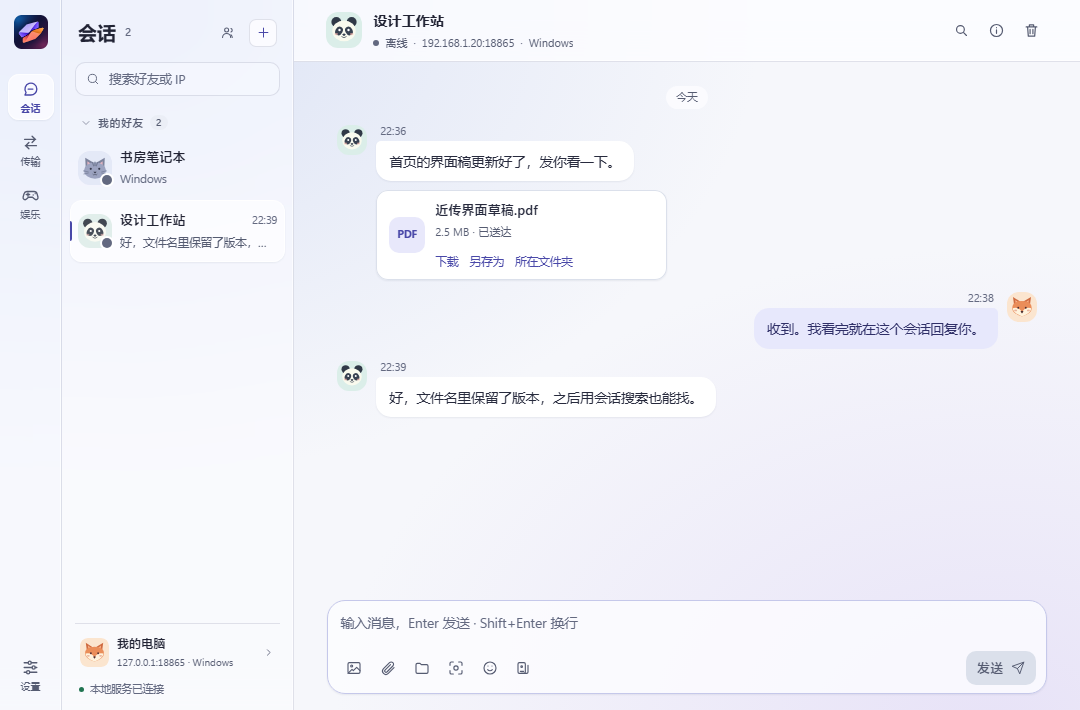
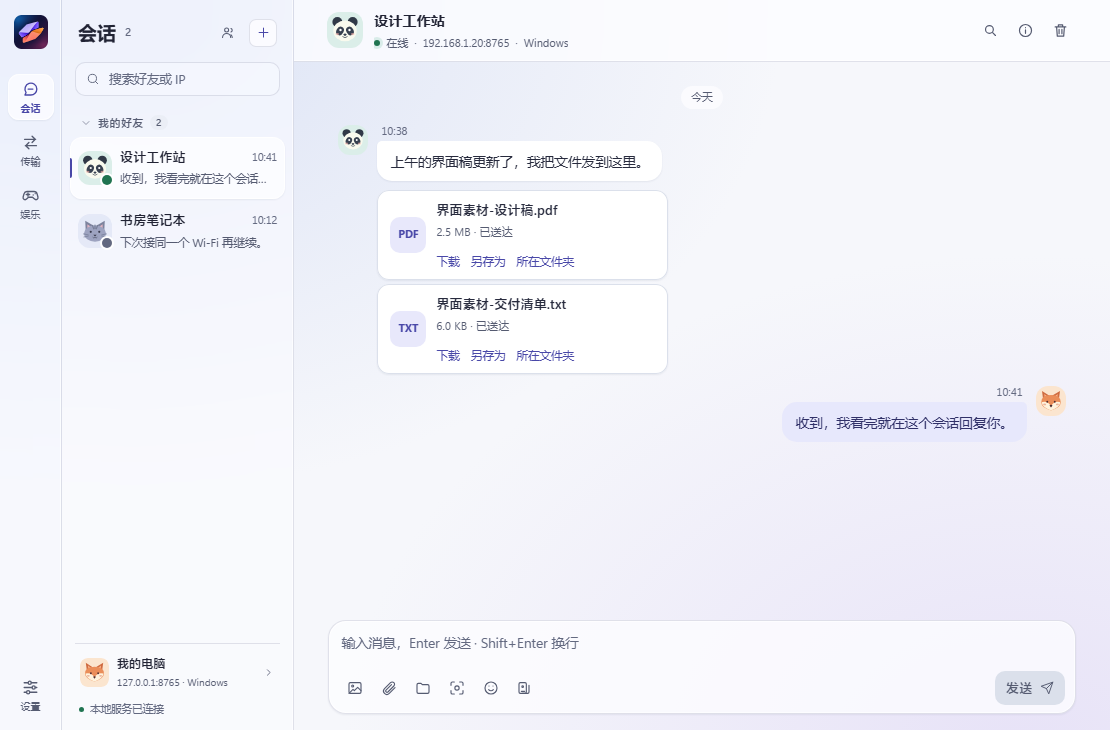
Show JinChuang features with a screenshot gallery

diff --git a/docs/SHOWCASE.md b/docs/SHOWCASE.md
@@ -1,0 +1,61 @@
+# 功能图览
+
+[返回项目首页](../README.md) · [详细使用手册](USAGE.md)
+
+用一台「设计工作站」和一台「我的电脑」演示日常互传。截图来自实际界面，设备、聊天和文件均为演示数据；部分为较早版本的功能回归截图。
+
+[聊天](#聊天和收文件) · [附件草稿](#发送前检查附件) · [搜索](#搜索会话和筛选文件) · [连接诊断](#添加好友和连接诊断) · [传输控制](#暂停继续和取消传输) · [设置](#头像和外观) · [麻将](#四川麻将练习)
+
+## 聊天和收文件
+
+选中设备即可聊天。收到的文件直接显示在气泡里，可以下载、另存或打开所在文件夹。无需先切到独立的传输页。
+
+![聊天中收到 PDF 设计稿和 TXT 交付清单](images/conversation.png)
+
+## 发送前检查附件
+
+把文件拖入会话，或从输入框下方选择图片、文件、文件夹。附件会先进入**待发送**区，能查看文件名、大小和图片缩略图；选错的可以移除，只有点「发送」才会传出。
+
+![待发送区同时放入 TXT、PDF 和 PNG 三种附件](images/attachment-draft.png)
+
+## 搜索会话和筛选文件
+
+在当前会话按 `Ctrl+F`（macOS：`⌘F`），或点右上角放大镜。输入「素材」并选「文件」，只看匹配的文件记录。可以直接下载，也可以点结果回到原消息。
+
+![搜索素材并筛选为文件，显示两个匹配附件](images/conversation-search.png)
+
+## 添加好友和连接诊断
+
+自动发现不到对方时，点会话列表旁的「+」，输入对方显示的 **IP 或 IP:端口**，先点「检测连接」。近传会显示检测结果、对方版本和响应时间。已添加的设备也可从「好友资料」运行诊断。
+
+![添加好友时检测连接，显示目标地址、版本和响应时间](images/connection-diagnostics.png)
+
+截图中的 `127.0.0.1` 和端口是本机双端测试用的。两台电脑互传时，请填写**对方电脑的局域网地址**。
+
+## 暂停继续和取消传输
+
+示例中的 10 MB 文件已经传了 **4 MB**。暂停会保留接收端确认的进度；点「继续」后从这里接着传。文件收齐后执行 SHA-256 校验。
+
+![传输页显示 4 MB / 10 MB、40% 和已暂停状态](images/transfer.png)
+
+取消前会提示将清理哪些数据。已送达的文件和聊天记录不会因此删除；对方暂不在线时，可等上线再重试清理。
+
+![取消传输前的二次确认对话框](images/transfer-cancel.png)
+
+> 完整传输控制需要双方都使用 v1.6.1 或更新版本，适用于单聊里的文件和图片。群文件和整目录仍走原有传输方式。
+
+## 头像和外观
+
+左下角「设置 → 我的资料」可更改昵称、选择内置头像。外观支持浅色、深色和跟随系统，也可精简页面动效。
+
+![设置里展示六款卡通头像和主题、动效选项](images/profile-settings.png)
+
+同一个会话切到深色后的样子：
+
+![近传深色会话界面，保留相同的消息和附件布局](images/dark-theme.png)
+
+## 四川麻将练习
+
+在「娱乐 → 四川麻将」可开始单人练习，与三家电脑一起打牌；也可以从会话邀请好友加入牌桌。
+
+![四川麻将单人练习中的横向牌桌和三家电脑对手](images/mahjong-practice.png)

diff --git a/README.md b/README.md
@@ -6,6 +6,7 @@
 
 <p align="center">
   <a href="https://github.com/kiu9676-cmd/JinChuang/archive/refs/heads/main.zip">下载源码</a> ·
+  <a href="docs/SHOWCASE.md">功能图览</a> ·
   <a href="#快速开始">快速开始</a> ·
   <a href="docs/USAGE.md">使用手册</a> ·
   <a href="CHANGELOG.md">更新日志</a> ·
@@ -16,14 +17,22 @@
 
 ![近传会话界面：设备列表、文字和文件消息](docs/images/conversation.png)
 
-## 能做什么
+## 功能一览
 
-- **找到同一网络里的设备**：自动发现，或手动添加 IP。连不上时，可以在添加好友或好友资料里检测地址和端口。
-- **聊天和查附件**：支持单聊和群聊、截图、拖放文件和文件夹。按 `Ctrl+F`（macOS：`⌘F`）搜索当前会话，再按类型筛选和定位。
-- **大文件传到一半也能接着传**：双方使用 v1.6.1 或更新版本时，单聊的文件和图片支持暂停、继续、取消；按接收端确认的进度恢复，完成后校验 SHA-256。
-- **数据留在本机**：聊天记录、好友资料和接收文件默认保存在 `data/`，接收目录可自定义。
+<table>
+  <tr>
+    <td width="50%"><a href="docs/SHOWCASE.md#发送前检查附件"><img src="docs/images/attachment-draft.png" alt="待发送区展示三种附件"></a><br><b>发送前先检查附件</b><br>拖入或选择文件，确认后再发送。</td>
+    <td width="50%"><a href="docs/SHOWCASE.md#搜索会话和筛选文件"><img src="docs/images/conversation-search.png" alt="会话内搜索并筛选文件"></a><br><b>会话内快速找文件</b><br>按 Ctrl+F 搜索，筛选、定位或下载。</td>
+  </tr>
+  <tr>
+    <td width="50%"><a href="docs/SHOWCASE.md#添加好友和连接诊断"><img src="docs/images/connection-diagnostics.png" alt="添加好友时查看连接诊断结果"></a><br><b>连不上，先检测</b><br>核对地址、版本和响应时间。</td>
+    <td width="50%"><a href="docs/SHOWCASE.md#暂停继续和取消传输"><img src="docs/images/transfer.png" alt="文件传到 40% 后保留进度并暂停"></a><br><b>大文件可以暂停再继续</b><br>保留确认进度，传完用 SHA-256 校验。</td>
+  </tr>
+</table>
 
-[查看暂停传输界面](docs/images/transfer.png)。文件夹和群文件沿用原有传输方式，暂未加入断点续传。
+[查看完整功能图览：还有取消传输、头像设置、深色模式和四川麻将 →](docs/SHOWCASE.md)
+
+双方使用 v1.6.1 或更新版本时，单聊文件和图片支持暂停、继续、取消。群文件和整目录沿用原有传输方式。
 
 ## 快速开始
 
